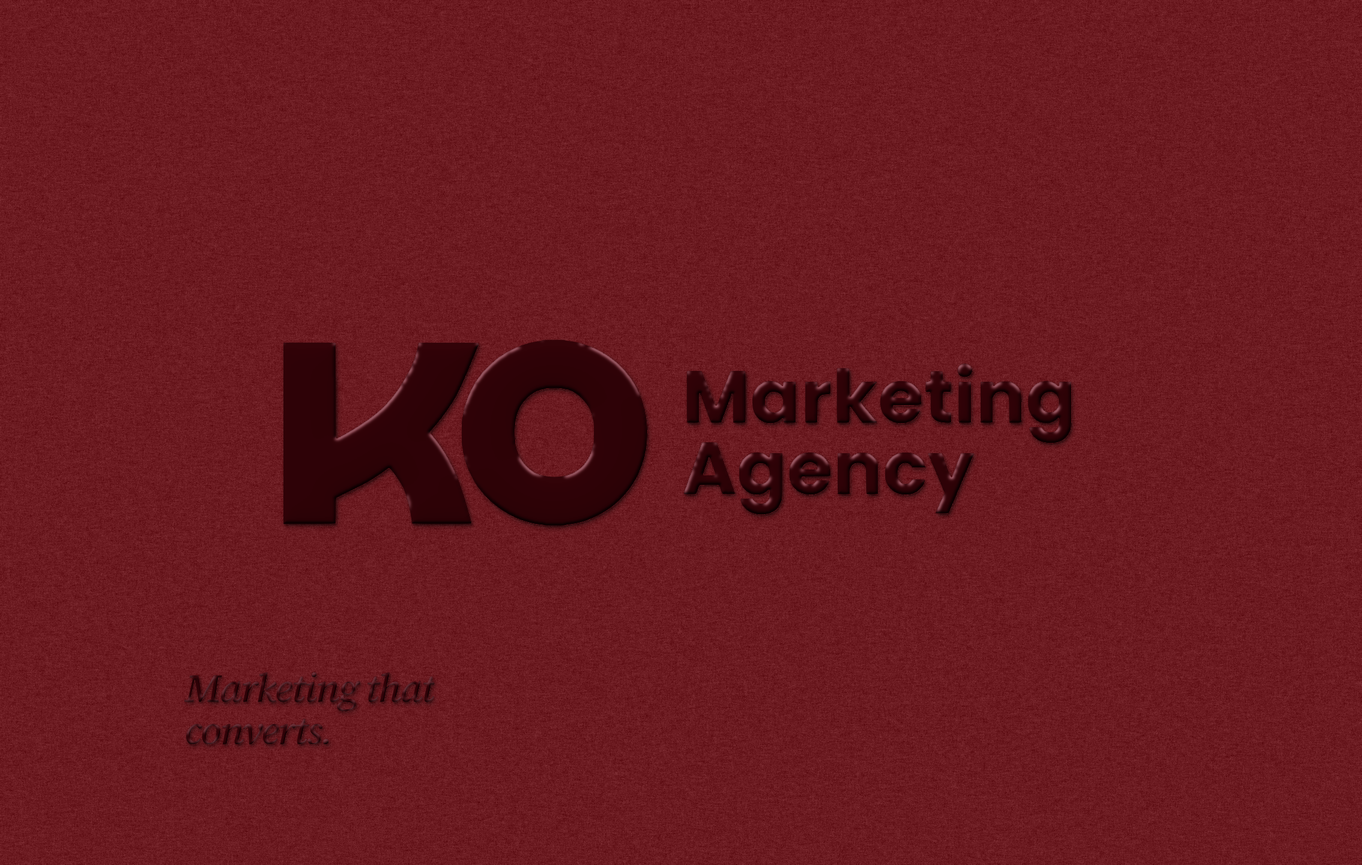
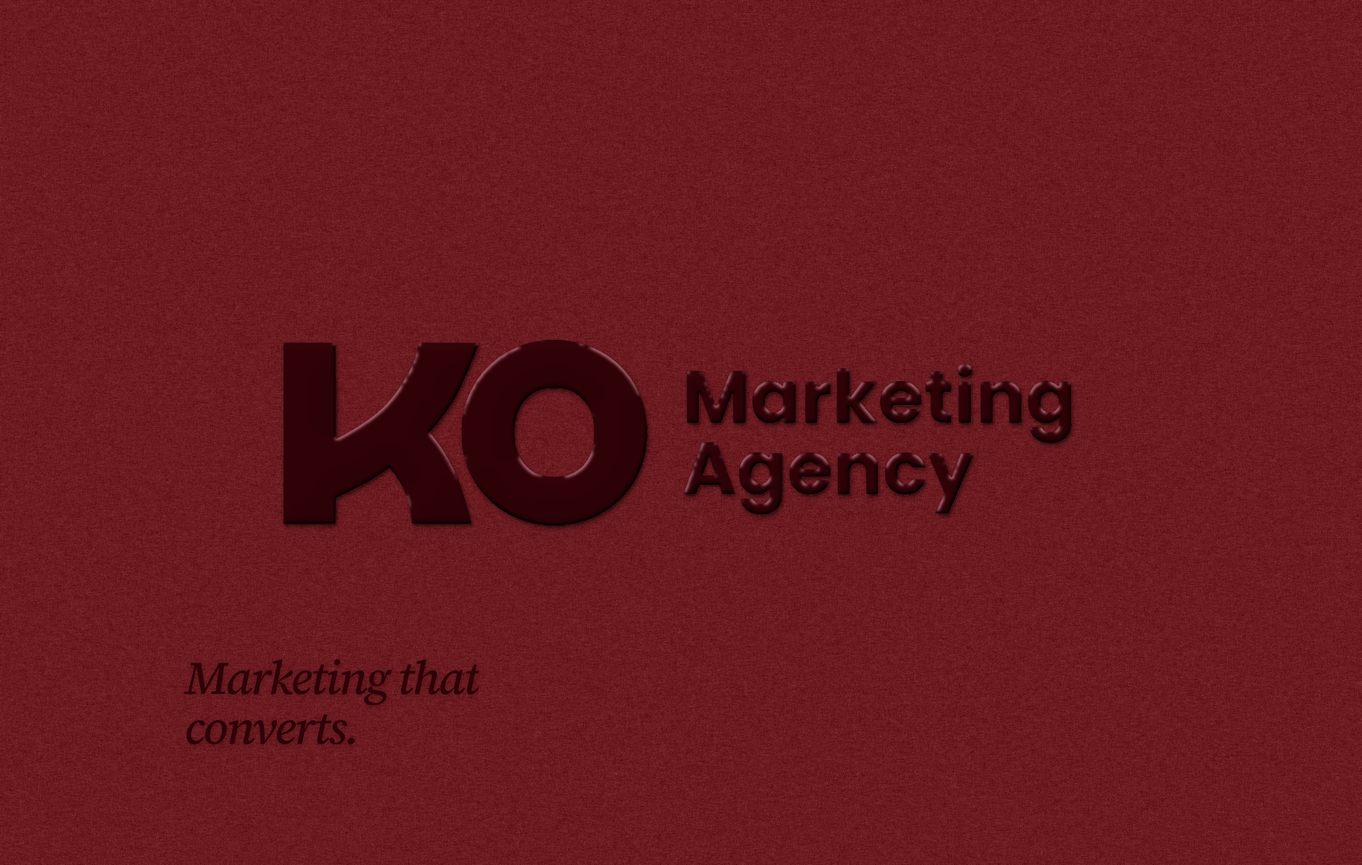
Make the v2 tagline a larger, darker gloss.
The small line is about 18% larger and filled with #2E0207, without bevel or catchlights, so the letters stay crisp. The wordmark and both backs are unchanged.

Changed region(s): [[0.1235, 0.7495, 0.3704, 0.8744]]

diff --git a/brand/business-cards/v2/build_v2.py b/brand/business-cards/v2/build_v2.py
@@ -36,7 +36,10 @@ PEAK = np.array([255.0, 177.0, 193.0], dtype=np.float32)
 SHEEN = 0.50
 
 WORD_X, WORD_Y, WORD_W = 20.0, 23.94, 56.0
-TAG_X, TAG_Y = 13.0, 47.05
+# Ink bottom-left of the 8 pt tagline, kept when the type grows.
+TAG_INK_X, TAG_INK_BOTTOM = 13.0, 52.49
+TAG_SCALE = 1.18
+TAG_FILL = np.array([46.0, 2.0, 7.0], dtype=np.float32)  # #2E0207
 
 
 def canvas_size():
@@ -342,6 +345,26 @@ def paste_centered(shape, coverage, width_mm, center_mm, angle=0.0, fatten_mm=0.
     return mask
 
 
+def apply_tagline(canvas, mask):
+    """Smooth dark gloss for the small line. No bevel and no catchlights.
+
+    A short, very soft shadow is the only thing that lifts it off the sheet.
+    The fill is flat #2E0207 so the strokes stay crisp.
+    """
+    coverage = np.clip(mask.astype(np.float32), 0.0, 1.0)
+    if float(coverage.max()) < 0.01:
+        return canvas
+    mm = DPI / 25.4
+    solid = (coverage > 0.45).astype(np.float32)
+    off = mm * 0.10
+    dropped = gaussian_filter(slide(solid, off * 0.45, off), sigma=mm * 0.20)
+    outside = coverage < 0.08
+    canvas *= 1.0 - (dropped * outside)[..., None] * 0.22
+    canvas[:] = canvas * (1.0 - coverage[..., None]) + TAG_FILL * coverage[..., None]
+    np.clip(canvas, 0.0, 255.0, out=canvas)
+    return canvas
+
+
 def gloss_group(canvas, mask):
     """Gloss only where the mask sits, so the sheen is per letter, not the whole card."""
     ys, xs = np.where(mask > 0.04)
@@ -354,13 +377,36 @@ def gloss_group(canvas, mask):
     return canvas
 
 
+def _tag_placement(mask, scale):
+    """Grow the 8 pt tagline from its ink bottom-left."""
+    base_w = mask.shape[1] / 2.0 * 25.4 / 96.0 * (8.0 / 32.0)
+    width = base_w * scale
+    height = width * mask.shape[0] / mask.shape[1]
+    ink = mask > 0.15
+    ys, xs = np.where(ink)
+    if len(ys) == 0:
+        raise SystemExit("tagline mask is empty")
+    left_f = float(xs.min()) / mask.shape[1]
+    bot_f = float(ys.max() + 1) / mask.shape[0]
+    x = TAG_INK_X - left_f * width
+    y = TAG_INK_BOTTOM - bot_f * height
+    return x, y, width
+
+
 def build_front(masks, shape):
     img = paper(*shape)
     word = paste_at(shape, masks["mark"], WORD_X, WORD_Y, WORD_W)
-    # 32 pt shot scaled to the 8 pt tagline. 8/32 = 0.25 of the rendered CSS width.
-    tag_w = masks["tag"].shape[1] / 2.0 * 25.4 / 96.0 * (8.0 / 32.0)
-    tag = paste_at(shape, masks["tag"], TAG_X, TAG_Y, tag_w)
-    gloss_group(img, np.maximum(word, tag))
+    # The approved logo and this line were glossed as one mask. Repeating that
+    # keeps the wordmark's catchlight field identical, then the line is replaced.
+    old_w = masks["tag"].shape[1] / 2.0 * 25.4 / 96.0 * (8.0 / 32.0)
+    old_tag = paste_at(shape, masks["tag"], 13.0, 47.05, old_w)
+    gloss_group(img, np.maximum(word, old_tag))
+    sheet = paper(*shape)
+    cut = int(round(px(44.0)))
+    img[cut:] = sheet[cut:]
+    tag_x, tag_y, tag_w = _tag_placement(masks["tag"], TAG_SCALE)
+    tag = paste_at(shape, masks["tag"], tag_x, tag_y, tag_w)
+    apply_tagline(img, tag)
     return img
 
 
@@ -458,6 +504,44 @@ def check_gloss(front, mark):
     return fill
 
 
+def check_tagline(front, tag_mask):
+    """The small line is a flat #2E0207 gloss, larger, still inside the safe box."""
+    shape = front.shape[:2]
+    tag_x, tag_y, tag_w = _tag_placement(tag_mask, TAG_SCALE)
+    mask = paste_at(shape, tag_mask, tag_x, tag_y, tag_w)
+    ink = mask > 0.45
+    if int(ink.sum()) < 40:
+        raise SystemExit("tagline ink sample is empty")
+    ys, xs = np.where(ink)
+    mm = 25.4 / DPI
+    left, right = float(xs.min()) * mm, float(xs.max() + 1) * mm
+    top, bottom = float(ys.min()) * mm, float(ys.max() + 1) * mm
+    solid = front[ink]
+    fill = np.median(solid, axis=0)
+    ratio = v1.rel_lum(INK) / v1.rel_lum(fill)
+    paper_px = INK
+    print(
+        f"tagline ink {left:.2f}–{right:.2f} x {top:.2f}–{bottom:.2f} mm "
+        f"size {right - left:.2f}×{bottom - top:.2f} "
+        f"fill {np.round(fill, 1)} {v1._hex(fill)} "
+        f"Y-ratio {ratio:.2f} vs paper {np.round(paper_px, 1)}"
+    )
+    if left < 5.9 or right > 90.1 or top < 5.9 or bottom > 55.1:
+        raise SystemExit("tagline leaves the 3 mm safe zone")
+    if abs(left - TAG_INK_X) > 0.15 or abs(bottom - TAG_INK_BOTTOM) > 0.15:
+        raise SystemExit("tagline ink bottom-left moved")
+    if not (17.57 * 1.14 <= (right - left) <= 17.57 * 1.22):
+        raise SystemExit("tagline width is outside the 15–20% increase")
+    if float(fill[0]) > 52 or float(np.max(np.abs(fill - TAG_FILL))) > 8:
+        raise SystemExit(f"tagline fill {v1._hex(fill)} is not #2E0207")
+    if ratio < 3.0:
+        raise SystemExit(f"tagline luminance contrast {ratio:.2f} is under 3")
+    bright = int(((solid[:, 0] > 80) & (solid[:, 1] > 30)).sum())
+    if bright > 0:
+        raise SystemExit(f"tagline still has {bright} catchlight pixels")
+    return ratio
+
+
 def main():
     ASSETS.mkdir(parents=True, exist_ok=True)
     shape = canvas_size()
@@ -473,10 +557,8 @@ def main():
     front = build_front(masks, shape)
     save_rgb(ASSETS / "front-bg.png", front)
     check_gloss(front, masks["mark"])
-    back = build_back_b(masks, shape)
-    save_rgb(ASSETS / "back-b-bg.png", back)
-    check_contrast("back-b", back)
-    print("wrote front and back B")
+    check_tagline(front, masks["tag"])
+    print("wrote front")
 
 
 if __name__ == "__main__":

diff --git a/brand/business-cards/v2/render_v2.py b/brand/business-cards/v2/render_v2.py
@@ -64,9 +64,30 @@ def split_pages(src, names):
         print("wrote", name.name)
 
 
+def stitch_print(front_src, print_path):
+    """New front page plus the already-approved back pages."""
+    front = PdfReader(str(front_src))
+    writer = PdfWriter()
+    writer.add_page(front.pages[0])
+    single = PdfWriter()
+    single.add_page(front.pages[0])
+    front_path = ROOT / "v2B-front.pdf"
+    with front_path.open("wb") as handle:
+        single.write(handle)
+    print("wrote", front_path.name)
+    for name in ("v2B-back-lisa-maretti.pdf", "v2B-back-kristina-ostapenko.pdf"):
+        back = PdfReader(str(ROOT / name))
+        if len(back.pages) != 1:
+            raise SystemExit(f"{name} should stay a single page")
+        writer.add_page(back.pages[0])
+    with print_path.open("wb") as handle:
+        writer.write(handle)
+    print("wrote", print_path.name)
+
+
 def render_all():
-    """Front and both B backs, on the lighter grained sheet."""
-    raw_path = ROOT / "v2B-print.pdf"
+    """Rebuild the front page. The two back PDFs stay byte-for-byte."""
+    raw_path = Path("/tmp/v2B-print-raw.pdf")
     preview_path = Path("/tmp/v2-preview-b.pdf")
     with sync_playwright() as p:
         browser = p.chromium.launch(
@@ -78,14 +99,7 @@ def render_all():
         print("rendered", raw_path.name, preview_path.name)
         browser.close()
     set_boxes(raw_path)
-    split_pages(
-        raw_path,
-        [
-            ROOT / "v2B-front.pdf",
-            ROOT / "v2B-back-lisa-maretti.pdf",
-            ROOT / "v2B-back-kristina-ostapenko.pdf",
-        ],
-    )
+    stitch_print(raw_path, ROOT / "v2B-print.pdf")
 
 
 if __name__ == "__main__":
